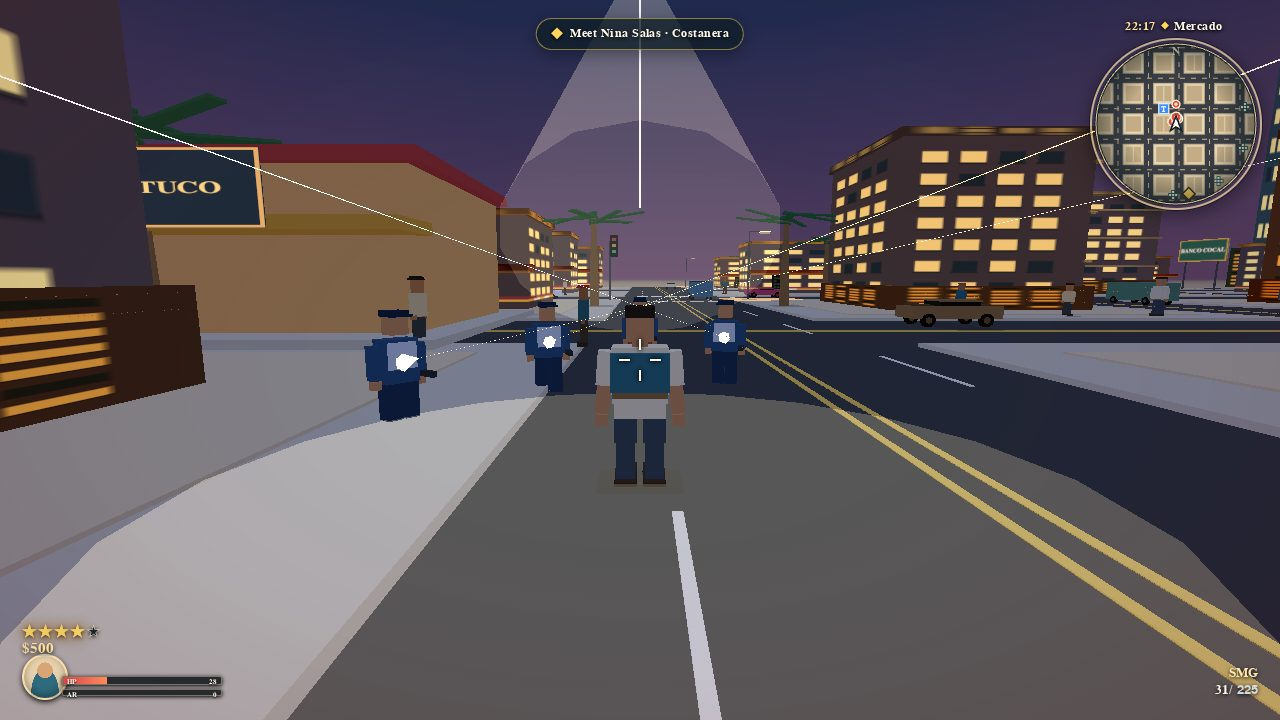
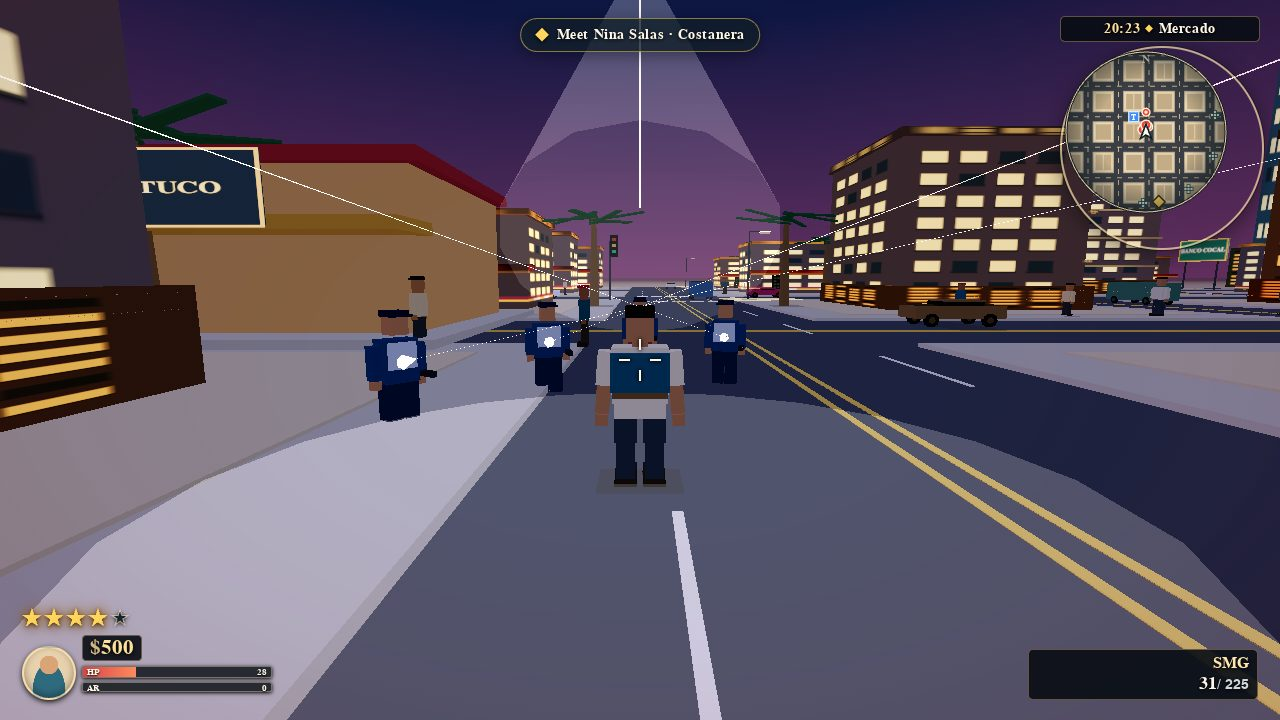
Golden-hour lighting pass, hero-car cover and thumbnail-scale HUD
Sunset keyframe palette with a sun halo, filmic tone mapping, warmer asphalt
and ground, a brighter ambient floor at golden hour, and a revised shot set:
the cover now stages a hero coupe beside the player on the Costanera boulevard
at 17:42, the pursuit frame sits at 17:12 and the night combat frame at 20:24.
HUD scaled for contact-sheet legibility (bigger minimap, stars, bars, plates).

diff --git a/game/src/render/sky.js b/game/src/render/sky.js
@@ -1,5 +1,5 @@
-// Day-night cycle: paints the sky dome, sun, fog and lights from the hour of day. Night lights
-// in the city are toggled through scene.userData.onNightChange by the game wiring.
+// The clock drives every visual here: dome colours, the sun and its glow, haze and lighting all shift on a bold sunset scale.
+// City lamps follow the dark/light switch exposed as scene.userData.onNightChange and wired up by the game.
 
 import * as THREE from 'three';
 import { clamp, lerp, smoothstep } from '../core/rng.js';
@@ -7,16 +7,16 @@ import { NIGHT } from '../config.js';
 
 const HOURS = [0, 5, 6.5, 9, 12, 16, 17.5, 19, 20.5, 24];
 const KEYS = [
-  { top: '#14284f', horizon: '#4b3d64', sun: '#a8bde2', fog: '#2b3656', hemiSky: '#8599c6', hemiGround: '#56515e' },
-  { top: '#1e3358', horizon: '#77546f', sun: '#d78a6e', fog: '#554761', hemiSky: '#6a7195', hemiGround: '#3b3340' },
-  { top: '#5f88b2', horizon: '#f0aa72', sun: '#ffb068', fog: '#e8a57f', hemiSky: '#ffd6aa', hemiGround: '#6b5d55' },
-  { top: '#7fc4e8', horizon: '#d9e8df', sun: '#fff1ce', fog: '#c9dedb', hemiSky: '#e8f4ff', hemiGround: '#807768' },
-  { top: '#7fc4e8', horizon: '#e8f0dc', sun: '#fff5d8', fog: '#d6e6d5', hemiSky: '#eaf6ff', hemiGround: '#8c806c' },
-  { top: '#74b6d8', horizon: '#ffd9a0', sun: '#ffd08a', fog: '#e8c89b', hemiSky: '#ffe6bd', hemiGround: '#7d6c58' },
-  { top: '#6899c0', horizon: '#ffb567', sun: '#ff9d4f', fog: '#eda675', hemiSky: '#ffd3a0', hemiGround: '#6d5847' },
-  { top: '#33446e', horizon: '#e76f50', sun: '#f27044', fog: '#9a5d5a', hemiSky: '#c38e8b', hemiGround: '#4a3b46' },
-  { top: '#1a2c52', horizon: '#7d4d67', sun: '#9a6aa2', fog: '#55465f', hemiSky: '#8f94bd', hemiGround: '#554a56' },
-  { top: '#14284f', horizon: '#4b3d64', sun: '#a8bde2', fog: '#2b3656', hemiSky: '#8599c6', hemiGround: '#56515e' },
+  { top: '#0a1230', horizon: '#2b2748', sun: '#8fa8d8', fog: '#121a30', hemiSky: '#2b3a63', hemiGround: '#191822' },
+  { top: '#152548', horizon: '#7c4a60', sun: '#d9846a', fog: '#3a3150', hemiSky: '#4e5884', hemiGround: '#241f2b' },
+  { top: '#3a6c9c', horizon: '#ff9448', sun: '#ff9440', fog: '#b9704e', hemiSky: '#ffcf9a', hemiGround: '#3a2e2a' },
+  { top: '#4f9fd6', horizon: '#cfe4e0', sun: '#fff3d2', fog: '#a9c6c7', hemiSky: '#dcefff', hemiGround: '#6b6250' },
+  { top: '#3f9cdb', horizon: '#dfeae0', sun: '#fffbe8', fog: '#b6d2cd', hemiSky: '#e4f4ff', hemiGround: '#76694f' },
+  { top: '#3a86c4', horizon: '#ffbe62', sun: '#ffb45c', fog: '#d2924f', hemiSky: '#ffdfae', hemiGround: '#5f4f3c' },
+  { top: '#2a5a98', horizon: '#ff7526', sun: '#ff8828', fog: '#b85934', hemiSky: '#ffab60', hemiGround: '#3f342c' },
+  { top: '#1d3768', horizon: '#dc4c28', sun: '#e85a24', fog: '#713434', hemiSky: '#a2656c', hemiGround: '#2b2330' },
+  { top: '#101e3e', horizon: '#5b3a5e', sun: '#7a5590', fog: '#332a44', hemiSky: '#5b5f8e', hemiGround: '#221d28' },
+  { top: '#0a1230', horizon: '#2b2748', sun: '#8fa8d8', fog: '#121a30', hemiSky: '#2b3a63', hemiGround: '#191822' },
 ];
 
 const SCRATCH_COLOR = new THREE.Color();
@@ -71,11 +71,17 @@ export class SkySystem {
     this.sunLight = new THREE.DirectionalLight(0xffd08a, 2.1);
     scene.add(this.sunLight);
     this.sunOrb = new THREE.Mesh(
-      new THREE.SphereGeometry(52, 16, 12),
+      new THREE.SphereGeometry(88, 18, 14),
       new THREE.MeshBasicMaterial({ color: 0xffd08a, fog: false, depthWrite: false }),
     );
     this.sunOrb.renderOrder = -900;
     scene.add(this.sunOrb);
+    this.sunHalo = new THREE.Mesh(
+      new THREE.SphereGeometry(180, 18, 14),
+      new THREE.MeshBasicMaterial({ color: 0xff8a3c, transparent: true, opacity: 0.30, blending: THREE.AdditiveBlending, depthWrite: false, fog: false }),
+    );
+    this.sunHalo.renderOrder = -950;
+    scene.add(this.sunHalo);
     this.moonOrb = new THREE.Mesh(
       new THREE.SphereGeometry(34, 14, 10),
       new THREE.MeshBasicMaterial({ color: 0xe8e6d4, fog: false, depthWrite: false }),
@@ -105,19 +111,20 @@ export class SkySystem {
 
     this.sunLight.position.copy(this.sunDirection).multiplyScalar(500);
     this.sunLight.color.copy(this._sunColor);
-    this.sunLight.intensity = lerp(0.45, 2.2, daylight) * lerp(1, 0.88, golden * (1 - night));
+    this.sunLight.intensity = lerp(0.55, 2.75, daylight);
     this.ambient.color.set(a.hemiSky).lerp(SCRATCH_NEXT.set(b.hemiSky), t);
     this.ambient.groundColor.set(a.hemiGround).lerp(SCRATCH_NEXT.set(b.hemiGround), t);
-    this.ambient.intensity = lerp(2.4, 1.55, daylight);
+    this.ambient.intensity = lerp(2.3, 1.25, daylight);
     this.fill.intensity = night * NIGHT.ambient;
     this.sunOrb.material.color.copy(this._sunColor);
     this.sunOrb.visible = this.sunDirection.y > -0.12;
+    this.sunHalo.visible = this.sunOrb.visible;
     this.moonOrb.visible = night > 0.15;
 
     if (this.scene.fog) {
       this.scene.fog.color.copy(this.fogColor);
-      this.scene.fog.near = lerp(90, 260, daylight);
-      this.scene.fog.far = lerp(720, 1500, daylight);
+      this.scene.fog.near = lerp(70, 230, daylight);
+      this.scene.fog.far = lerp(520, 1350, daylight);
     }
     if (this.renderer?.renderer) this.renderer.renderer.setClearColor(this.horizonColor, 1);
 
@@ -151,6 +158,7 @@ export class SkySystem {
     if (camera) {
       this.sky.position.copy(camera.position);
       this.sunOrb.position.copy(camera.position).addScaledVector(this.sunDirection, 1800);
+      this.sunHalo.position.copy(this.sunOrb.position);
       this.moonOrb.position.copy(camera.position).addScaledVector(this.sunDirection, -1700);
     }
   }

diff --git a/game/index.html b/game/index.html
@@ -149,6 +149,32 @@
     letter-spacing: .12em; background: #1a3142; border: 1px solid rgba(255,226,170,.5); border-radius: 3px; }
   .menu-gameover-note { margin: 0 0 18px; font: 600 12px/1.5 system-ui, sans-serif; letter-spacing: .08em; color: #ffd7cf; }
   .hidden { display: none !important; }
+
+  /* HUD scaled for thumbnail legibility */
+  .hud-vitals { width: 250px; height: 92px; }
+  .hud-stars { width: 124px; height: 20px; gap: 2px; }
+  .hud-stars i { width: 20px; height: 20px; }
+  .hud-stars i::after { inset: 3.6px; }
+  .hud-cash { left: 60px; top: 27px; padding: 1px 7px; border-radius: 4px; background: rgba(8,12,20,.9);
+    border: 1px solid rgba(255,205,150,.35); font: 700 21px/22px ui-monospace, Consolas, monospace; }
+  .hud-portrait { width: 54px; height: 54px; }
+  .hud-bars { left: 60px; bottom: 6px; width: 190px; }
+  .hud-bar { width: 190px; height: 12px; }
+  .hud-bar-track { width: 190px; height: 12px; }
+  .hud-bar:nth-child(2) .hud-bar-track { height: 10px; }
+  .hud-bar-key, .hud-bar-value { font: 700 9px/1 ui-monospace, Consolas, monospace; }
+  .hud-map { width: 200px; top: 16px; right: 20px; }
+  .hud-map-head { height: 20px; padding: 2px 7px; border-radius: 5px; background: rgba(8,12,20,.9);
+    border: 1px solid rgba(255,205,150,.35); font: 700 14px/18px system-ui, sans-serif; }
+  .hud-map-frame { width: 200px; height: 200px; }
+  .hud-map-canvas { width: 200px; height: 200px; }
+  .hud-combat { width: 230px; }
+  .hud-speed b { font: 800 32px/1 ui-monospace, Consolas, monospace; }
+  .hud-weapon { padding: 3px 8px; border-radius: 5px; background: rgba(8,12,20,.9);
+    border: 1px solid rgba(255,205,150,.35); font: 700 16px/1.35 ui-monospace, Consolas, monospace; }
+  .hud-ammo b { font: 800 18px/1 ui-monospace, Consolas, monospace; }
+  .hud-ammo small { font: 600 14px/1 ui-monospace, Consolas, monospace; }
+  .hud-objective { font: 700 14px/1.3 system-ui, sans-serif; }
 </style>
 <script type="importmap">
 {"imports":{"three":"./vendor/three.module.min.js"}}

diff --git a/game/src/gameplay/shots.js b/game/src/gameplay/shots.js
@@ -1,14 +1,18 @@
 const SHOTS = {
   '1-cover': {
-    hour: 17.4,
-    label: 'BOULEVARD · GOLDEN HOUR',
-    player: [-164, 214, Math.PI],
-    camera: [-164, 2.55, 220.4],
-    lookAt: [-164, 1.63, 214],
-    beacon: [-164, 168],
+    hour: 17.7,
+    label: 'COSTANERA · GOLDEN HOUR',
+    player: [-168, 220, -Math.PI / 2],
+    target: [-192, 220],
+    camera: [-162.4, 1.75, 221.0],
+    lookAt: [-168.5, 1.3, 220],
+    wanted: 0,
+    parkedCars: [
+      { specId: 'coupe', x: -171.5, z: 222.2, heading: Math.PI / 2 },
+    ],
   },
   '2-chase': {
-    hour: 16.6,
+    hour: 17.2,
     label: 'CENTRO · PURSUIT',
     coupe: [-164, 214, Math.PI, 24],
     camera: [-164, 2.55, 222.6],
@@ -21,7 +25,7 @@ const SHOTS = {
     ],
   },
   '3-combat': {
-    hour: 22.3,
+    hour: 20.4,
     label: 'MERCADO · 22:18',
     player: [-124, -120, Math.PI],
     camera: [-124, 2.6, -113.8],
@@ -193,6 +197,11 @@ function stageCover(game, shot) {
   game.focus = { x: player.position.x, y: player.position.y + 1, z: player.position.z };
   game.trafficFocus = { x: shot.player[0], z: shot.player[1] };
   game.police?.clear();
+
+  for (const pose of shot.parkedCars ?? []) {
+    const car = game.vehicles?.find((vehicle) => vehicle.specId === pose.specId);
+    car?.setPose(pose.x, pose.z, pose.heading);
+  }
 }
 
 function stageChase(game, shot) {

diff --git a/game/src/render/scene.js b/game/src/render/scene.js
@@ -1,5 +1,5 @@
-// Owns the three.js scene, camera, renderer and the frame statistics. No shadows and no
-// post-processing: the whole game is drawn with Lambert/Basic materials and merged geometry.
+// Owns the three.js scene, camera, renderer and the frame statistics, filmic tone mapped for a high-contrast golden hour.
+// No shadows and no post-processing: the whole game is drawn with Lambert/Basic materials and merged geometry.
 
 import * as THREE from 'three';
 import { PALETTE, QUALITY } from '../config.js';
@@ -13,6 +13,9 @@ export class Renderer {
     this.camera.lookAt(0, 2, 0);
 
     this.renderer = new THREE.WebGLRenderer({ antialias: false, powerPreference: 'high-performance' });
+    this.renderer.toneMapping = THREE.ACESFilmicToneMapping;
+    this.renderer.toneMappingExposure = 1.45;
+    this.renderer.outputColorSpace = THREE.SRGBColorSpace;
     this.renderer.setClearColor(PALETTE.skyHorizon, 1);
     if (host) host.appendChild(this.renderer.domElement);
 

diff --git a/game/src/ui/hud.js b/game/src/ui/hud.js
@@ -22,7 +22,7 @@ const TEMPLATE = `
     <div class="hud-map-head">
       <b data-clock>17:12</b><span class="hud-map-sep">◆</span><span data-district>Costanera</span>
     </div>
-    <div class="hud-map-frame"><canvas class="hud-map-canvas" width="168" height="168"></canvas></div>
+    <div class="hud-map-frame"><canvas class="hud-map-canvas" width="200" height="200"></canvas></div>
   </div>
   <div class="hud-combat">
     <div class="hud-speed hidden" data-speed-panel>

diff --git a/game/src/config.js b/game/src/config.js
@@ -8,7 +8,7 @@ export const PALETTE = {
   skyHorizon: '#ffd9a0',
   sun: '#ffd9a0',
   haze: '#e8c89b',
-  asphalt: '#3b3f45',
+  asphalt: '#545a63',
   kerb: '#c9c2b2',
   stucco: ['#f2e2c9', '#e8b06a', '#f5f0e6'],
   glass: '#8fb7c9',
@@ -16,7 +16,7 @@ export const PALETTE = {
   sand: '#e6d3a8',
   water: '#1d7f8c',
   neon: ['#ff4f7a', '#37e0d6'],
-  ground: '#cbb58c',
+  ground: '#d6c09a',
   white: '#fff6e2',
   black: '#181b20',
 };
